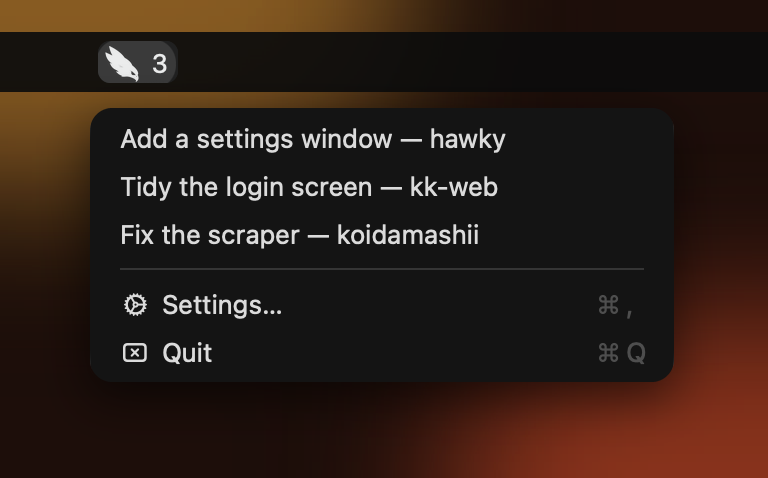
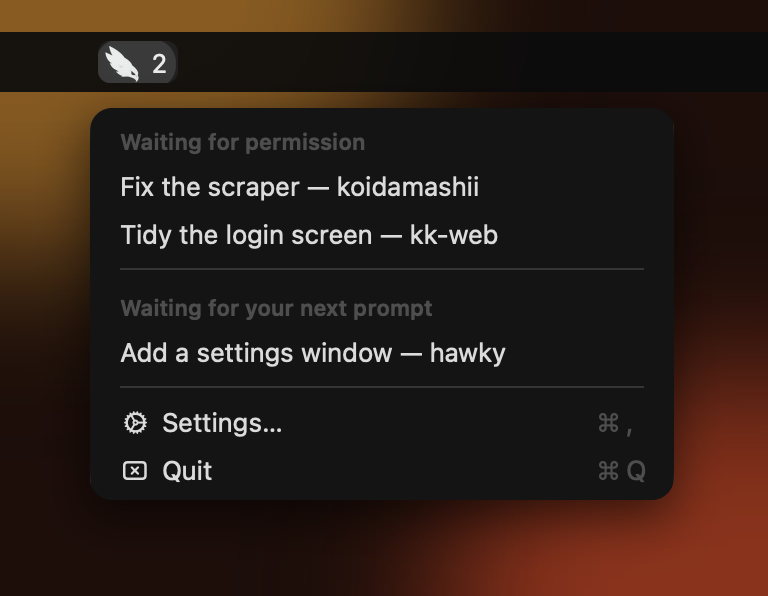
fix(lp): show both kinds of wait in the hero
The page introduces sessions waiting for a prompt, but the menu in the hero only had permission waits. It now shows two of each under their headers, captured from the running app in each language.

Changed region(s): [[0.0, 0.0293, 0.6562, 0.4393], [0.1562, 0.4686, 0.8438, 0.8201], [0.5938, 0.6151, 0.875, 0.8494]]

diff --git a/lp/src/app/[locale]/page.tsx b/lp/src/app/[locale]/page.tsx
@@ -82,7 +82,7 @@ export default async function Page({ params }: PageProps) {
             <Image
               alt=""
               className="w-full max-w-md rounded-3xl shadow-[0_30px_70px_-20px_rgba(60,10,0,0.6)] ring-4 ring-white/30"
-              height={478}
+              height={596}
               priority
               src={shot}
               width={locale === "ja" ? 776 : 768}
